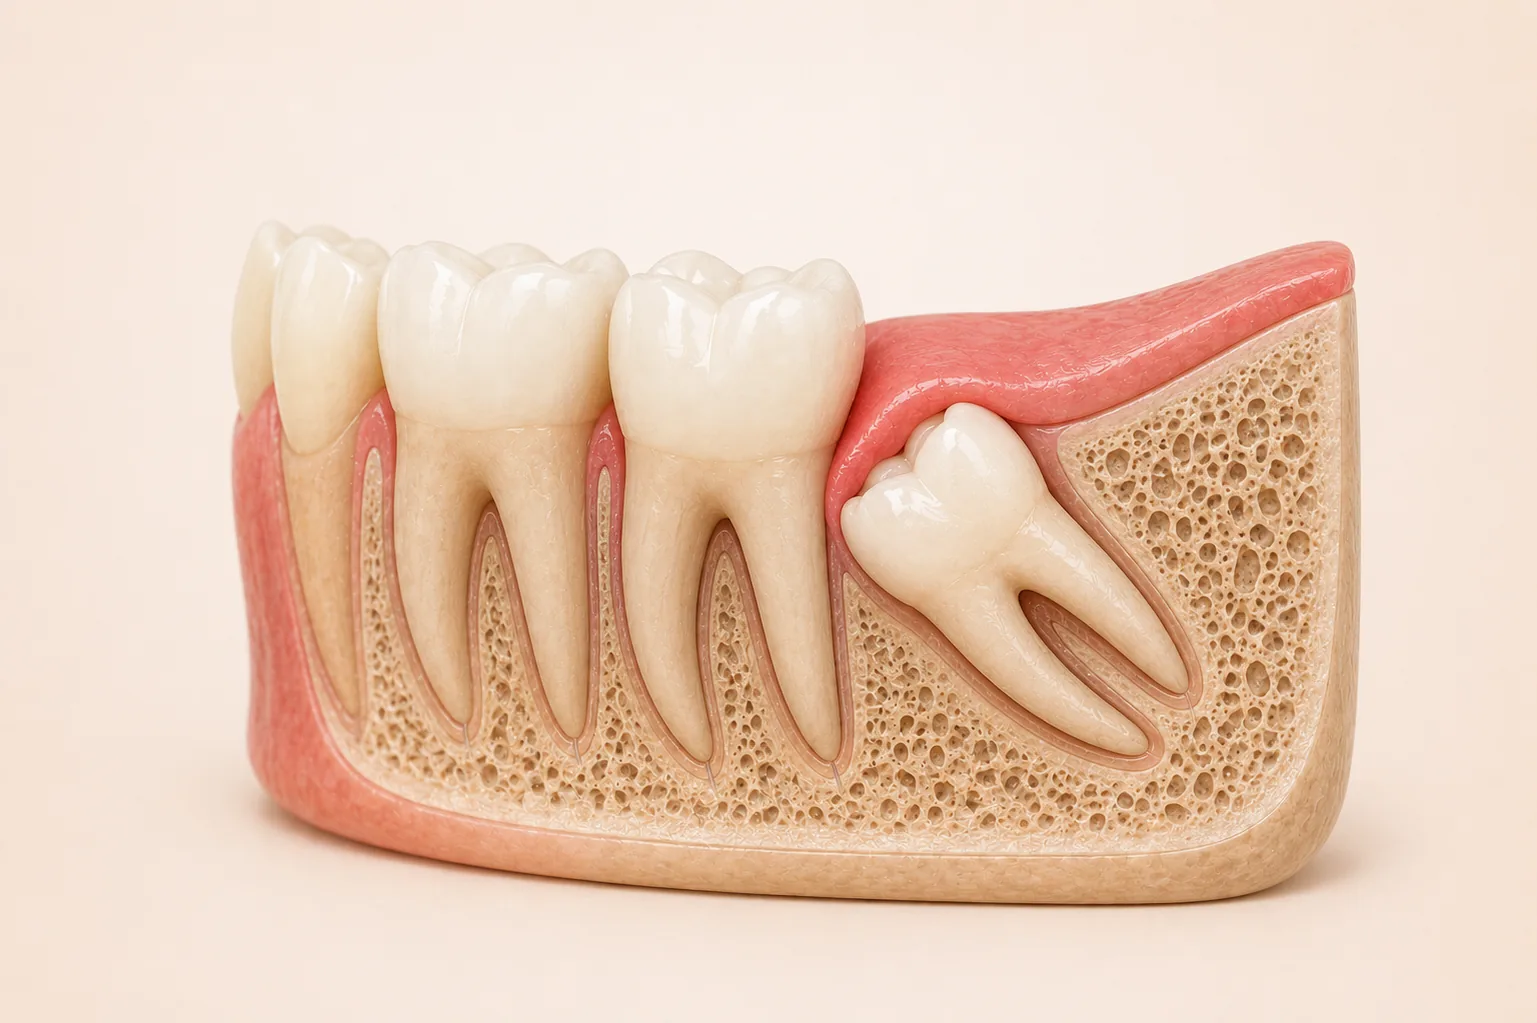
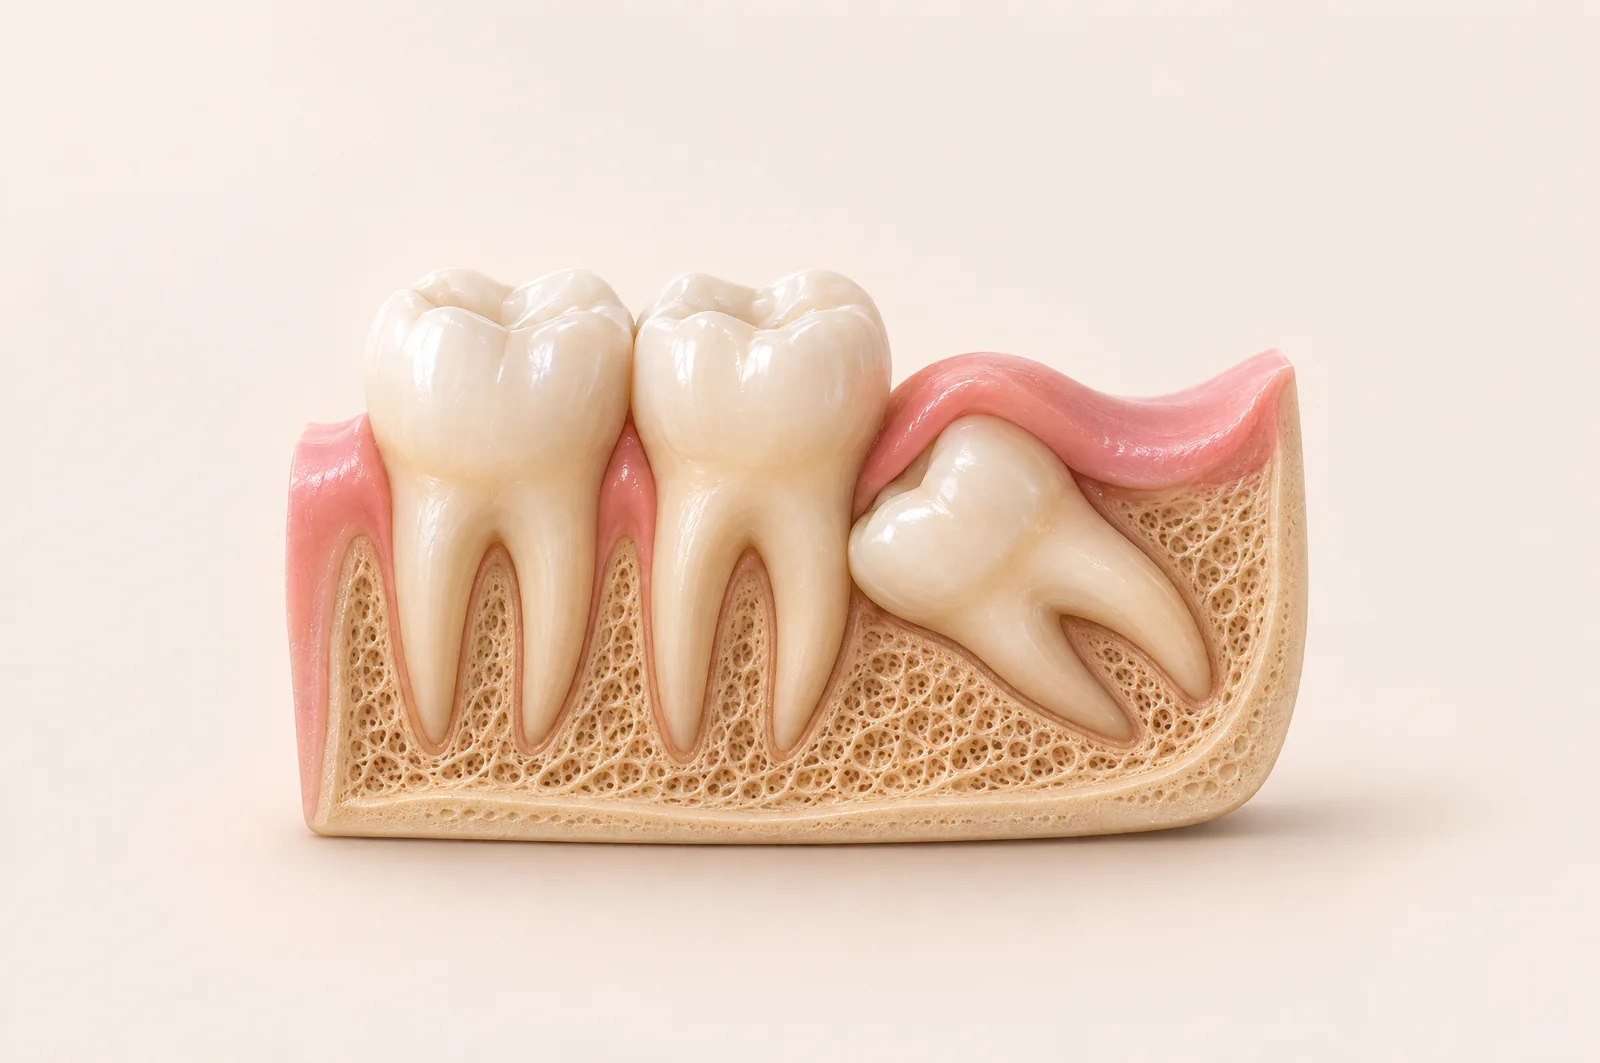
feat(services): new 3D illustrations for all 14 services
Regenerated every service illustration with GPT Image 2.6 (Higgsfield)
in one consistent style: warm cream background (#F5EFE6), soft studio
light, anatomically correct cross-sections. Replaces the 9 older images
(implant and emergency ones looked off) and adds the 5 services that had
none: consultatie-stomatologica, coroane-dentare, fatete-dentare,
albire-dentara, detartraj. Equipment shown matches the clinic (intraoral
scanner, aligners, GBT airflow); no X-ray/CBCT imagery.

1600x1063 WebP q82, 30-74 KB each.

diff --git a/src/lib/service-photos.ts b/src/lib/service-photos.ts
@@ -1,7 +1,8 @@
 /**
  * Service photos availability map.
  *
- * As 3D medical illustrations are generated for services, add their slug here.
+ * 3D illustrations (GPT Image 2.6 via Higgsfield, 24 Nov 2026), one per service,
+ * same style: warm cream background, soft studio light. Add new slugs here.
  * Returns the public path to the photo, or null if no photo exists yet.
  */
 const SERVICE_PHOTOS = new Set([
@@ -14,6 +15,11 @@ const SERVICE_PHOTOS = new Set([
   'endodontie',
   'chirurgie-oro-maxilo-faciala',
   'urgente-dentare',
+  'consultatie-stomatologica',
+  'coroane-dentare',
+  'fatete-dentare',
+  'albire-dentara',
+  'detartraj',
 ])
 
 export function getServicePhotoPath(slug: string): string | null {
